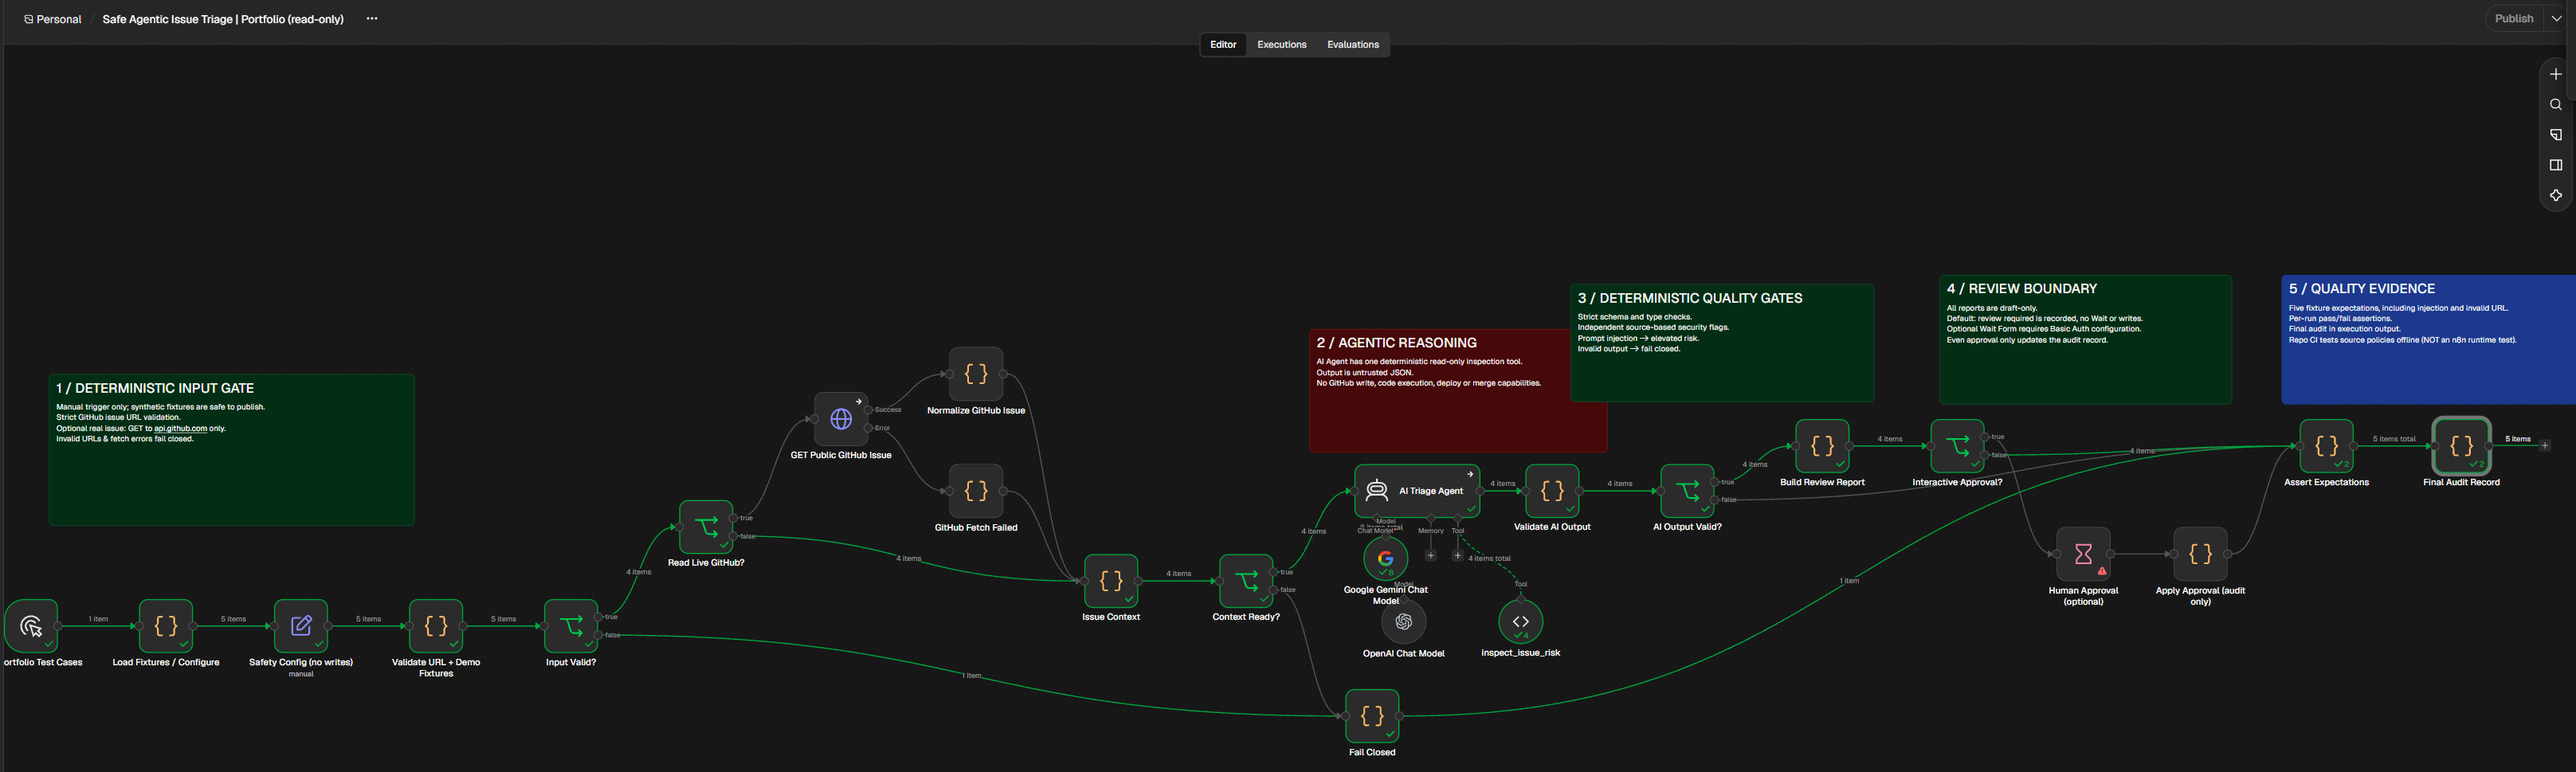
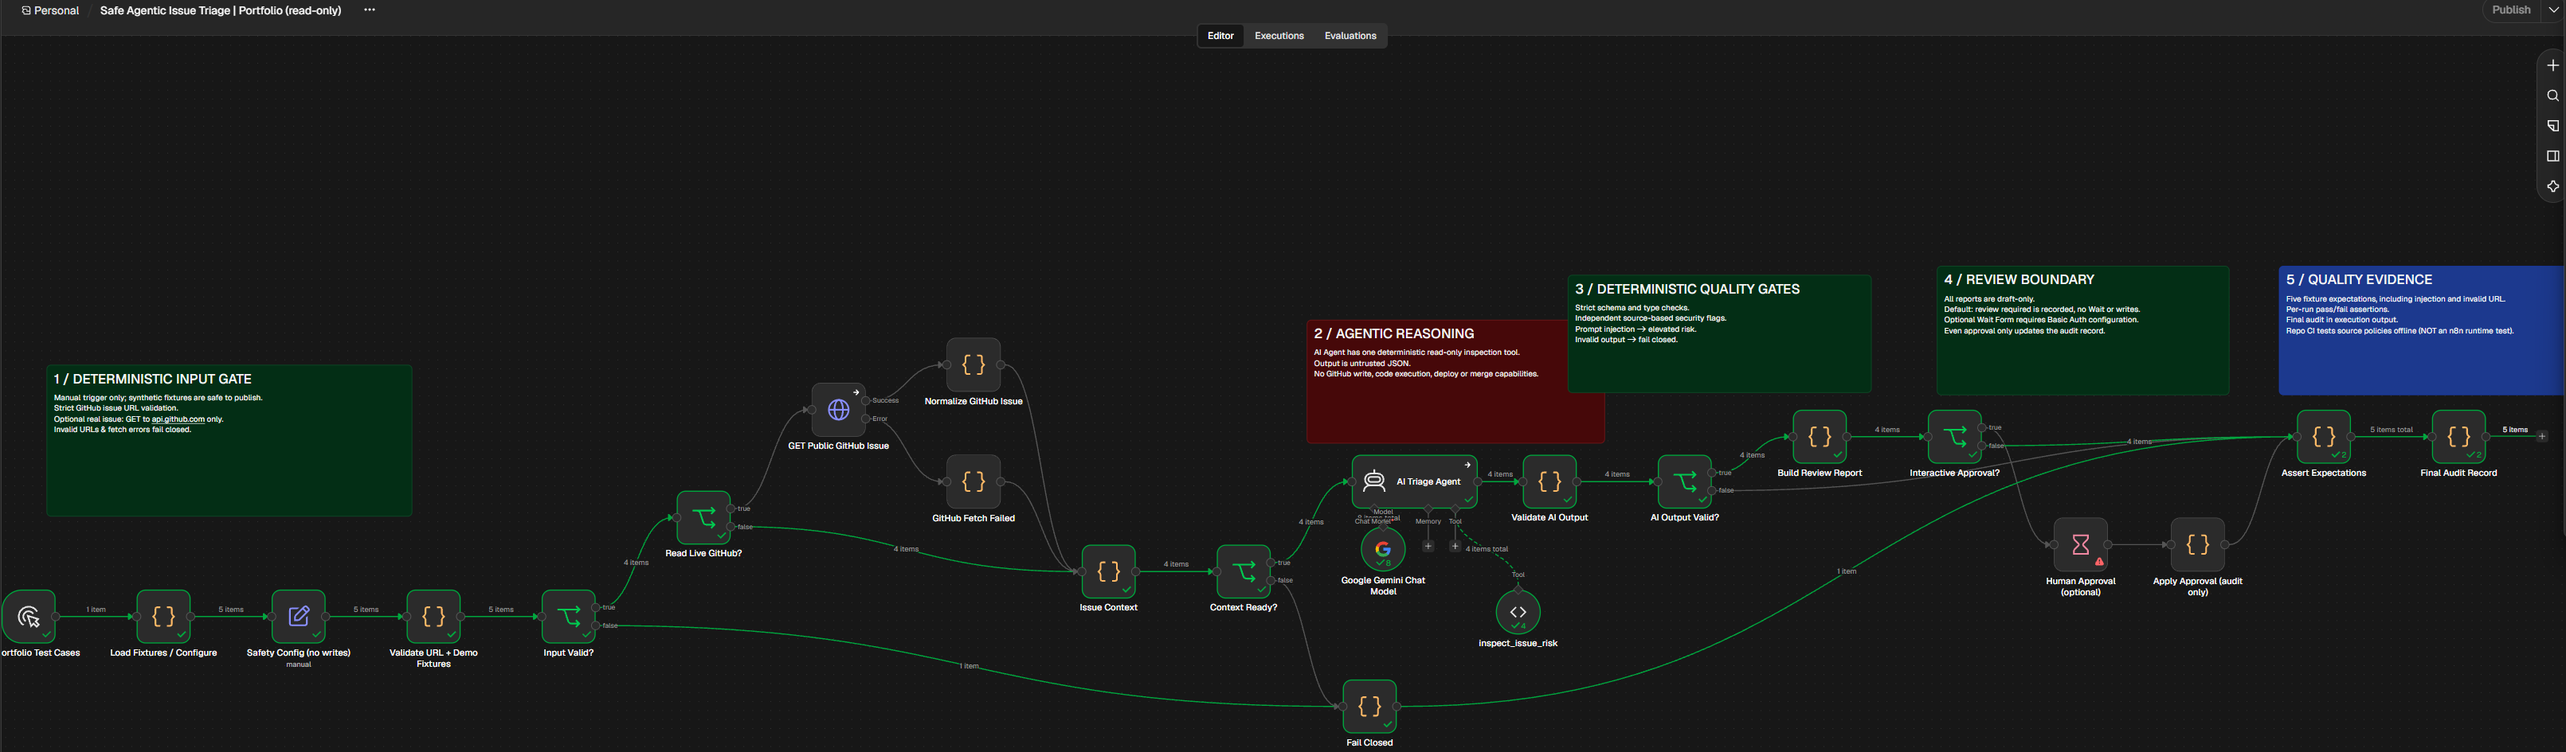
Fix README encoding

diff --git a/README.md b/README.md
@@ -2,10 +2,10 @@
 
 **Personal portfolio project by Claudio Di Lorenzo**
 
-**Deutsch:** [Schritt-fÃ¼r-Schritt: Import, Workflow testen und GitHub-VerÃ¶ffentlichung](docs/SETUP-UND-TEST-DE.md)  
+**Deutsch:** [Schritt-für-Schritt: Import, Workflow testen und GitHub-Veröffentlichung](docs/SETUP-UND-TEST-DE.md)  
 *An n8n reference workflow that separates AI-assisted issue investigation from deterministic quality and security controls.*
 
-[Workflow JSON](workflows/safe-agentic-issue-triage.json) Â· [Architecture](docs/architecture.md) Â· [Security model](SECURITY.md) Â· [Demo runbook](docs/demo-runbook.md) Â· [Quality and limitations](docs/quality-evidence.md)
+[Workflow JSON](workflows/safe-agentic-issue-triage.json) · [Architecture](docs/architecture.md) · [Security model](SECURITY.md) · [Demo runbook](docs/demo-runbook.md) · [Quality and limitations](docs/quality-evidence.md)
 
 ## Why this project?
 
@@ -43,7 +43,7 @@ flowchart LR
 | Area | Implementation |
 |---|---|
 | Agent | n8n AI Agent + Gemini 2.5 Flash-Lite (configure your own API credential) |
-| Agent's tool | `inspect_issue_risk` â€” pure JavaScript, no network, no credentials or side effects |
+| Agent's tool | `inspect_issue_risk` — pure JavaScript, no network, no credentials or side effects |
 | GitHub input | Synthetic demo fixtures or an optional, read-only public GitHub issue GET |
 | Safety | Strict URL allowlist, bounded input length, exact JSON schema, independent risk rules |
 | Approval | Review flag by default; optional authenticated Wait form with **no write action** |
@@ -55,7 +55,7 @@ flowchart LR
 
 1. In your n8n editor choose **Import from File** and select [`workflows/safe-agentic-issue-triage.json`](workflows/safe-agentic-issue-triage.json). The workflow is intentionally **inactive** and has no public trigger.
 2. Open **Google Gemini Chat Model**, configure your Gemini API credential, and select `models/gemini-2.5-flash-lite`. **Do not publish credentials in this repository.** Model/API usage may incur charges.
-3. Keep **Safety Config (no writes)** â†’ `interactive_approval_enabled = false` for the initial run. No GitHub credentials are required.
+3. Keep **Safety Config (no writes)** → `interactive_approval_enabled = false` for the initial run. No GitHub credentials are required.
 4. Click **Test workflow**. Synthetic issue URLs in `demo-org/dev-portal` are represented by bundled fixtures. Four cases use the model; an invalid URL is rejected without invoking the model.
 5. Open the **Final Audit Record** node and inspect each `test_case`, `risk_level`, `review_decision`, `test_pass`, `test_failures` and `report_markdown`. A generated report is **draft-only**.
 
@@ -116,4 +116,4 @@ The complete [submission checklist and short description](docs/application-notes
 
 Synthetic issues only are committed. No credentials, private company code, private datasets, real approval links, API keys, or execution traces are included. This is a personal project, independent of employer projects. See [SECURITY.md](SECURITY.md) and [design tradeoffs](docs/architecture.md).
 
-MIT License Â© 2026 Claudio Di Lorenzo.
+MIT License © 2026 Claudio Di Lorenzo.
